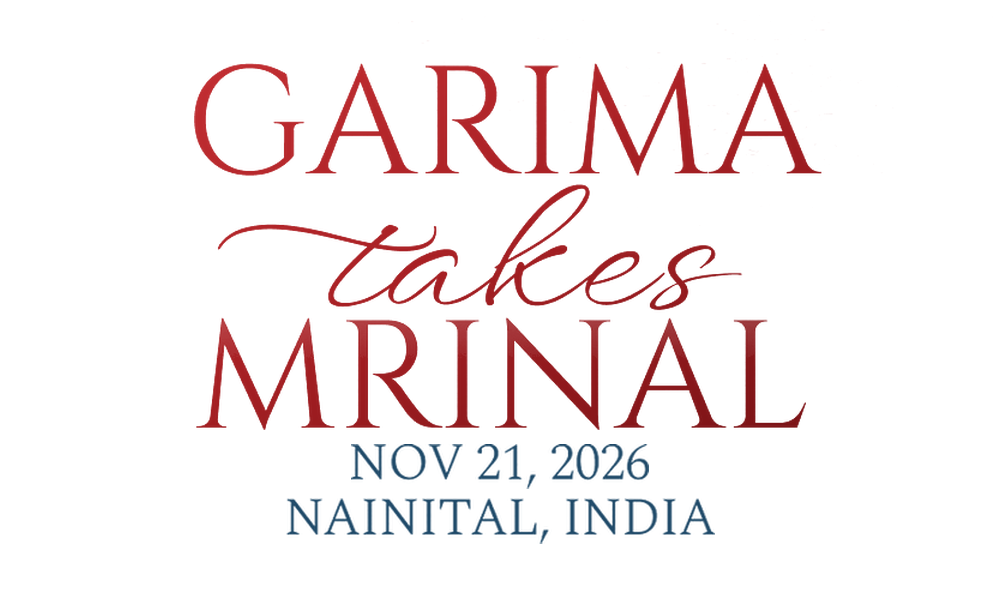
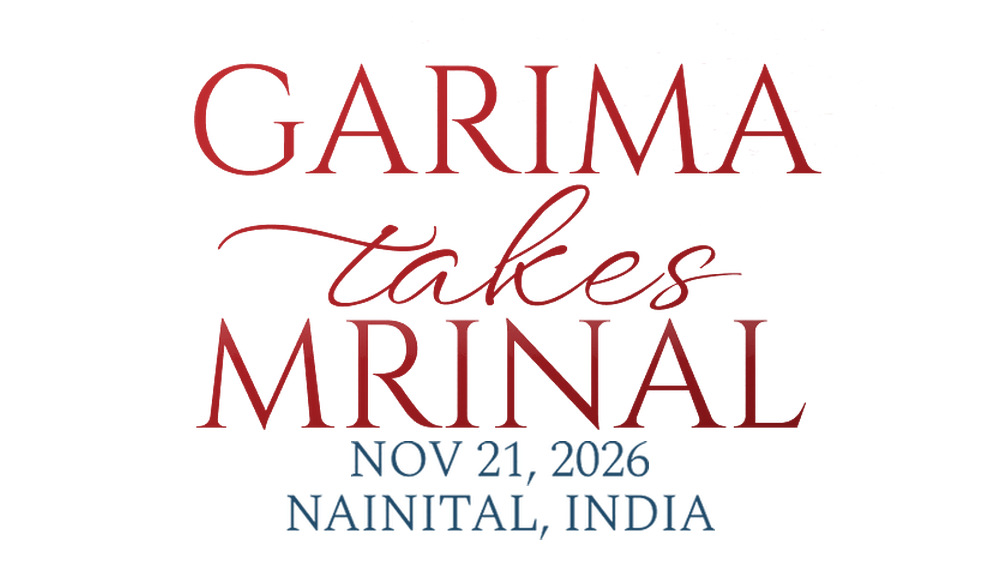
Reduce vertical gaps between MRINAL, Date, and Location rows by 5%

diff --git a/index.html b/index.html
@@ -17,13 +17,13 @@
 <meta name="apple-mobile-web-app-title" content="GTM 2026">
 <title>Garima weds Mrinal · Nainital 2026</title>
 <meta name="description" content="Garima weds Mrinal · A wedding in the Kumaon hills · 20–22 November 2026 · Nainital, Uttarakhand">
-<link rel="icon" type="image/png" sizes="32x32" href="images/favicon-32x32.png?v=4900">
-<link rel="icon" type="image/png" sizes="64x64" href="images/favicon-64x64.png?v=4900">
-<link rel="icon" type="image/x-icon" href="favicon.ico?v=4900">
+<link rel="icon" type="image/png" sizes="32x32" href="images/favicon-32x32.png?v=5000">
+<link rel="icon" type="image/png" sizes="64x64" href="images/favicon-64x64.png?v=5000">
+<link rel="icon" type="image/x-icon" href="favicon.ico?v=5000">
 <link rel="preconnect" href="https://fonts.googleapis.com">
 <link rel="preconnect" href="https://fonts.gstatic.com" crossorigin>
 <link href="https://fonts.googleapis.com/css2?family=Cinzel:wght@400;500;600;700&family=Cormorant+Garamond:ital,wght@0,300;0,400;0,500;0,600;0,700;1,400;1,500&family=Spectral:wght@200;300;400;500;600;700&family=WindSong&display=swap" rel="stylesheet">
-<link rel="stylesheet" href="css/site.css?v=4900">
+<link rel="stylesheet" href="css/site.css?v=5000">
 <style>
 @font-face {
   font-family: 'WindSong';
@@ -580,7 +580,7 @@ html, body {
           <!-- ── 3. Central Typography Centerpiece (Pixel-by-Pixel Master Design Lockup) ── -->
   <div class="home-hero-text">
     <div class="home-centerpiece-wrap">
-      <img src="images/home_centerpiece.png?v=4900" alt="GARIMA takes MRINAL · NOV 21, 2026 · NAINITAL, INDIA" class="home-centerpiece-img">
+      <img src="images/home_centerpiece.png?v=5000" alt="GARIMA takes MRINAL · NOV 21, 2026 · NAINITAL, INDIA" class="home-centerpiece-img">
     </div>
   </div>
 
@@ -915,7 +915,7 @@ document.addEventListener('DOMContentLoaded', function() {
   }
 });
 </script>
-<script src="js/spa-nav.js?v=4900"></script>
-<script src="js/global-audio.js?v=4900"></script>
+<script src="js/spa-nav.js?v=5000"></script>
+<script src="js/global-audio.js?v=5000"></script>
 </body>
 </html>
